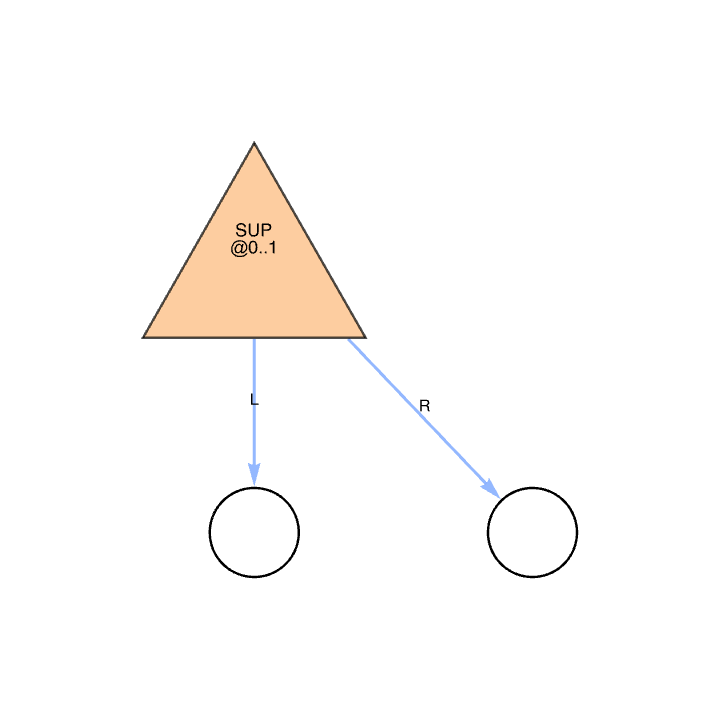
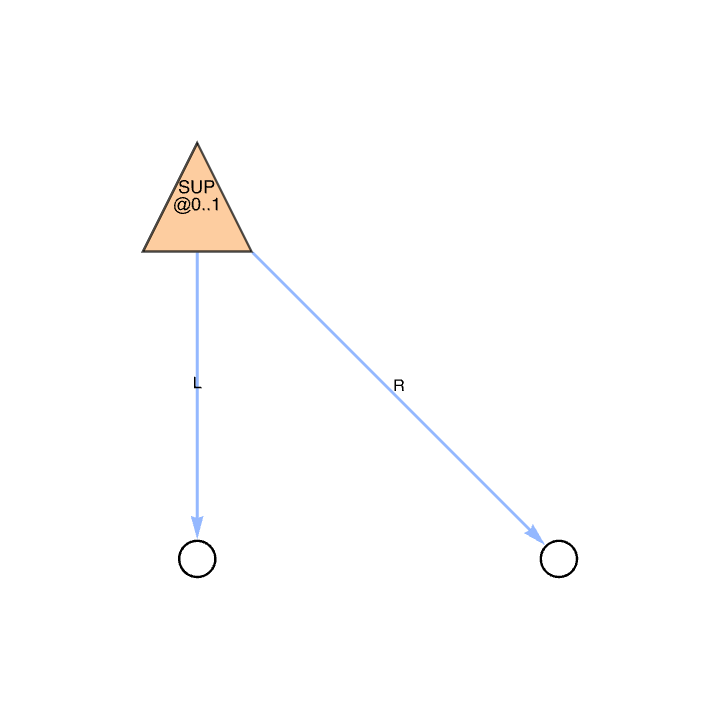
DUP-LAM + church-numeral examples
C runtime:
- src/interact/dup_lam.c: real DUP-LAM rule.  Allocates one 5-cell
  block holding the new pair of bound vars (as a SUP inside the
  original binder) and the new pair of body projections (as a fresh
  DUP over the original body).  Body is not eagerly cloned -- only
  when a future projection inspects part of the body does it descend
  lazily.
- Wired into wnf's DP frame's TAG_LAM dispatch.
- tests/test_dup_lam.c: clone identity lambda + apply-cloned-id end
  to end (5 checks).  Now 91+8=99 C checks pass via make test.

WL examples:
- 10-k-combinator: K = lam x. lam y. x
- 11-church-1: lam s. lam z. s z
- 12-church-2: lam s. lam z. s (s z) -- explicit TDup of s
- 13-church-2-applied: church2 f x reduced through TWnf, post-reduction
  graph showing the cloned LAMs feeding into a SUP at the original
  binder and the (now substituted) DUP cell

Two new VerificationTests in core.wlt: a direct DUP-LAM clone and
the Church-2-applied reduction.

Renderer side fixes (small, paired with this commit because they are
how the church2 graph reads cleanly):
- VertexShapeFunction now respects the size argument so VertexSize
  overrides actually take effect.  ERA Circle uses Min[size] for its
  radius.
- THeapGraph[t] accepts a TTerm or an Integer (was Integer-only).

Docs:
- docs/interact/dup_lam.md: rule + C + worked example + cost +
  why-this-shape note.
- docs/interact/_.md: DUP-LAM moved out of "deferred" into the
  implemented table.
[…]

diff --git a/tests/test_dup_lam.c b/tests/test_dup_lam.c
@@ -1,0 +1,66 @@
+// test_dup_lam.c -- DUP-LAM (lambda cloning).
+//
+// ! &L{F0, F1} = lam x.x   ->   F0 <- lam x0.x0,  F1 <- lam x1.x1
+//
+// We construct an identity lambda, dup it, and reduce DP0 to verify
+// the active projection comes back as a fresh LAM whose body is a
+// VAR pointing at its own binder.
+
+#include "../src/thvm.c"
+#include "test.h"
+
+int main(void) {
+  thvm_init();
+
+  TEST_BEGIN("dup-lam/identity-cloned");
+  {
+    // Build (lam x. x) at args base lam_loc.
+    u64  lam_loc = heap_alloc(1);
+    heap_set(lam_loc, term_new(0, TAG_VAR, 0, lam_loc));
+    Term lam     = term_new(0, TAG_LAM, 0, lam_loc);
+
+    // Build a DUP cell holding the identity lambda.
+    u64  dup_loc = heap_alloc(1);
+    heap_set(dup_loc, lam);
+    Term dp0     = term_new(0, TAG_DP0, 9, dup_loc);
+
+    u64  itrs_before = ITRS;
+    Term out         = wnf(dp0);
+    CHECK_EQ(term_tag(out), TAG_LAM);
+    CHECK_EQ(ITRS - itrs_before, 1);  // exactly one DUP-LAM firing
+
+    // The new LAM's body cell holds DP0(val=shared, lab) -- the body
+    // term is itself duplicated so DP1 (the inactive projection)
+    // shares it.  Verifying the structural invariant: body's tag is
+    // DP0 with the same dup label.
+    u64  new_lam_loc  = term_val(out);
+    Term new_lam_body = heap_read(new_lam_loc);
+    CHECK_EQ(term_tag(new_lam_body), TAG_DP0);
+    CHECK_EQ(term_ext(new_lam_body), 9);
+  }
+
+  TEST_BEGIN("dup-lam/applying-cloned-identity-yields-input");
+  {
+    // !&L{f0, f1} = lam x.x;  apply f0 to ERA  ->  ERA.
+    // Tests that DUP-LAM produces a usable lambda end-to-end.
+    u64  lam_loc = heap_alloc(1);
+    heap_set(lam_loc, term_new(0, TAG_VAR, 0, lam_loc));
+    Term lam     = term_new(0, TAG_LAM, 0, lam_loc);
+
+    u64  dup_loc = heap_alloc(1);
+    heap_set(dup_loc, lam);
+    Term dp0     = term_new(0, TAG_DP0, 11, dup_loc);
+
+    Term era     = term_new(0, TAG_ERA, 0, 0);
+    u64  app_loc = heap_alloc(2);
+    heap_set(app_loc + 0, dp0);
+    heap_set(app_loc + 1, era);
+    Term app     = term_new(0, TAG_APP, 0, app_loc);
+
+    Term out = wnf(app);
+    CHECK_EQ(term_tag(out), TAG_ERA);
+  }
+
+  thvm_free();
+  TEST_REPORT();
+}

diff --git a/src/interact/dup_lam.c b/src/interact/dup_lam.c
@@ -1,0 +1,38 @@
+// ! &L{F0, F1} = lam x.body
+// ------------------------- DUP-LAM
+// F0 <- lam x0.b0
+// F1 <- lam x1.b1
+// x  <- &L{x0, x1}
+// ! &L{b0, b1} = body
+//
+// Allocates one 5-cell block:
+//
+//   a+0  body cell of new LAM0     (also LAM0's binder slot)
+//   a+1  body cell of new LAM1     (also LAM1's binder slot)
+//   a+2  SUP left  = VAR(a+0)
+//   a+3  SUP right = VAR(a+1)
+//   a+4  shared DUP body holding the original lambda's body
+//
+// The original lambda's binder cell (lam_loc) gets substituted with
+// SUP(a+2, lab) so any leftover VAR -> lam_loc resolves to the new
+// pair of bound vars.  The active projection's side gets back its
+// fresh LAM via heap_subst_cop.
+fn Term interact_dup_lam(u32 lab, u64 loc, u8 side, Term lam) {
+  ITRS++;
+  u64  lam_loc = term_val(lam);
+  Term body    = heap_read(lam_loc);
+
+  u64 a = heap_alloc(5);
+  heap_set(a + 4, body);
+  heap_set(a + 0, term_new(0, TAG_DP0, lab, a + 4));
+  heap_set(a + 1, term_new(0, TAG_DP1, lab, a + 4));
+  heap_set(a + 2, term_new(0, TAG_VAR, 0,   a + 0));
+  heap_set(a + 3, term_new(0, TAG_VAR, 0,   a + 1));
+
+  Term sup = term_new(0, TAG_SUP, lab, a + 2);
+  Term l0  = term_new(0, TAG_LAM, 0,   a + 0);
+  Term l1  = term_new(0, TAG_LAM, 0,   a + 1);
+
+  heap_subst_var(lam_loc, sup);
+  return heap_subst_cop(side, loc, l0, l1);
+}

diff --git a/src/thvm.h b/src/thvm.h
@@ -107,6 +107,7 @@ fn Term interact_app_lam(Term lam, Term arg);
 fn Term interact_app_era(void);
 fn Term interact_dup_sup(u32 lab, u64 loc, u8 side, Term sup);
 fn Term interact_dup_era(u8 side, u64 loc, Term era);
+fn Term interact_dup_lam(u32 lab, u64 loc, u8 side, Term lam);
 
 // === wnf/ ===
 // Stack-machine reducer to weak normal form.  See src/wnf/_.c for the

diff --git a/src/wnf/_.c b/src/wnf/_.c
@@ -106,6 +106,10 @@ apply:
             whnf = interact_dup_era(side, loc, whnf);
             continue;
           }
+          case TAG_LAM: {
+            next = interact_dup_lam(lab, loc, side, whnf);
+            goto enter;
+          }
           default: {
             heap_set(loc, whnf);
             whnf = frame;

diff --git a/src/thvm.c b/src/thvm.c
@@ -36,6 +36,7 @@ u64   ITRS      = 0;
 #include "interact/app_era.c"
 #include "interact/dup_sup.c"
 #include "interact/dup_era.c"
+#include "interact/dup_lam.c"
 
 // === wnf/ ===
 #include "wnf/_.c"

diff --git a/CHANGELOG.md b/CHANGELOG.md
@@ -6,6 +6,74 @@ dated section.
 
 ## Unreleased
 
+### Added: DUP-LAM + church-numeral examples
+
+- `src/interact/dup_lam.c`: real DUP-LAM rule.  Allocates one
+  five-cell block holding the new pair of bound vars (as a SUP
+  inside the original binder) and the new pair of body projections
+  (as a fresh DUP over the original body).  No body cloning happens
+  eagerly -- only when a future projection inspects part of the
+  body does it descend lazily.  This is the rule that gives Church
+  numerals (and similarly Lamping / optimal-reduction style
+  workloads) their non-exponential cloning behaviour.
+- `tests/test_dup_lam.c`: two C tests; clone an identity lambda and
+  confirm DUP-LAM fires once, then end-to-end apply one of the
+  cloned copies to ERA.
+- `wl/Examples/10-k-combinator/`, `11-church-1/`, `12-church-2/`,
+  `13-church-2-applied/`: four new runnable examples.  The Church 2
+  family exercises the DUP machinery; the applied form reduces
+  end-to-end and the resulting graph (in `13-...-applied/graph.png`)
+  shows the post-firing heap including the cloned lambdas and the
+  substituted DUP cell.
+- Two new VerificationTests in `wl/THVMLink/Tests/core.wlt`: a
+  direct DUP-LAM clone, and Church-2-applied reducing to the
+  identity-applied result.
+- `docs/interact/dup_lam.md` documents the rule, the C, the cost,
+  and why the lazy-cloning shape matters.
+
+### Added: visualization renderer split + theme-aware colors
+
+- `wl/THVMLink/Kernel/Visualization.wl`: extracts the heap-graph
+  renderer into a dedicated kernel sibling.  THVMLink.wl now `Get`s
+  it after declaring public symbols.
+- Theme-aware colors throughout: `LightDarkSwitched[Black, White]`
+  for foreground; `Lighter[StandardX, 0.55]` / `Darker[StandardX,
+  0.45]` per-tag agent fills (green LAM, blue APP, orange SUP,
+  purple DUP); ERA stays as a plain foreground-stroked Circle.
+- Vertex labels now render in column form: `TAG\n@<base>` for
+  arity-1 agents, `TAG\n@<base>..<base+1>` for arity-2.
+- Triangles are real triangles via `Triangle[]` (not trapezoids)
+  with apex orientation matching IC convention: LAM/DUP point down,
+  APP/SUP point up.
+- VertexShapeFunction now respects the size argument so
+  `VertexSize -> Tiny | Small | Large | Scaled[...]` actually take
+  effect.
+- Single-vertex self-loop is drawn explicitly via
+  EdgeShapeFunction; the identity lambda's loop is now visible.
+- Pink "background" mystery solved: `Dashing[{Small, Small}]` was
+  invalid (Small is not a numeric Dashing arg) which silently put
+  Wolfram into an error-overlay state.  Replaced with the proper
+  `Dashed` directive.
+- Context-shadowing fix: switched `wl/Examples/run.wls` and
+  `wl/THVMLink/Tests/run.wls` from `Needs["THVMLink`"]` to
+  `Get["THVMLink`"]` so user code resolves to package symbols
+  rather than auto-created `Global`*` placeholders.
+- `wl/GUIDE.md` gains a Dark-mode + Standard colors section and an
+  OptionsPattern[] section.
+
+### Added: TTerm atomic wrapper + ensureInit
+
+- TTerm[id_Integer] is the canonical wrapper around a packed Term;
+  TLam / TApp / TSup / TDup / TEra / TVarFor return TTerm-wrapped
+  values; TTermTag/Ext/Val/Sub accept either a TTerm or a raw
+  Integer.  Old TTermInfo is gone (folded into TTerm[id]["info"]);
+  TTermNew is no longer in the public API (private packTerm helper).
+- TTerm[id]["tag" | "ext" | "val" | "sub" | "tagName" | "raw" |
+  "info"] forwards to the bridge.  Format.wl gives TTerm a summary
+  box keyed off the structural pattern (QuantumFramework style).
+- ensureInit[]: heap-touching ops auto-call TInit if the runtime is
+  not initialised yet.  TFree clears the flag.
+
 ### Added: wl/Examples/ runnable example database
 
 - New `wl/Examples/` directory: one folder per example term, each

diff --git a/docs/interact/dup_lam.md b/docs/interact/dup_lam.md
@@ -1,0 +1,87 @@
+# DUP-LAM
+
+Source: [src/interact/dup_lam.c](../../src/interact/dup_lam.c).
+Tested by [tests/test_dup_lam.c](../../tests/test_dup_lam.c) and a
+VerificationTest in [wl/THVMLink/Tests/core.wlt](../../wl/THVMLink/Tests/core.wlt).
+
+## Rule
+
+```
+! &L{F0, F1} = lam x.body
+------------------------- DUP-LAM
+F0 <- lam x0.b0
+F1 <- lam x1.b1
+x  <- &L{x0, x1}
+! &L{b0, b1} = body
+```
+
+Cloning a lambda: produce two fresh lambdas that share the same
+body via a new dup, and rebind the original variable so leftover
+occurrences of `x` in the rest of the program resolve to the new
+superposition `&L{x0, x1}`.  This is the rule that lets things like
+Church 2 (`lam s. lam z. s (s z)`) reduce: the `s` is duplicated
+before the inner application uses it twice.
+
+## Implementation
+
+```c
+fn Term interact_dup_lam(u32 lab, u64 loc, u8 side, Term lam) {
+  ITRS++;
+  u64  lam_loc = term_val(lam);
+  Term body    = heap_read(lam_loc);
+
+  u64 a = heap_alloc(5);
+  heap_set(a + 4, body);
+  heap_set(a + 0, term_new(0, TAG_DP0, lab, a + 4));
+  heap_set(a + 1, term_new(0, TAG_DP1, lab, a + 4));
+  heap_set(a + 2, term_new(0, TAG_VAR, 0,   a + 0));
+  heap_set(a + 3, term_new(0, TAG_VAR, 0,   a + 1));
+
+  Term sup = term_new(0, TAG_SUP, lab, a + 2);
+  Term l0  = term_new(0, TAG_LAM, 0,   a + 0);
+  Term l1  = term_new(0, TAG_LAM, 0,   a + 1);
+
+  heap_subst_var(lam_loc, sup);
+  return heap_subst_cop(side, loc, l0, l1);
+}
+```
+
+One 5-cell allocation; the layout is documented inline.
+
+## Worked example
+
+`!&L{F0, F1} = lam x.x` followed by `(F0 ERA)`:
+
+1. DUP-LAM fires.  Two cloned identity lambdas exist; the original
+   `x` is bound to a fresh `SUP{x0, x1}`; the original body cell
+   becomes a DUP carrier.
+2. `(F0 ERA)` reduces via APP-LAM, which substitutes `ERA` at F0's
+   binder loc.
+3. Resolving F0's body chases through DP0 of the dup body (which
+   holds `VAR(original-binder)`).  The original binder now holds
+   the SUP, so DP0 of SUP fires (annihilating same-label) and yields
+   `VAR(x0)` at the new LAM0's binder.
+4. That VAR resolves via the substitution from step 2 to ERA.
+
+Net effect: `(F0 ERA) -> ERA`, exactly as if F0 were the original
+identity lambda.  Tested by
+[tests/test_dup_lam.c](../../tests/test_dup_lam.c) and the WL
+"Church 2 applied to id and ERA reduces to ERA" verification test.
+
+## Cost
+
+- One `heap_alloc(5)`
+- Five `heap_set` for the new cells
+- One `heap_set` (via `heap_subst_var`) for the original binder
+- One `heap_set` (via `heap_subst_cop`) for the inactive projection
+- Zero recursion: the body itself is not cloned, only wrapped in a
+  new DUP that the future projections will descend into lazily.
+- One `ITRS++`.
+
+## Why this is the right shape
+
+Naive lambda cloning would deep-copy the body, which is exponential
+in the worst case.  The IC trick is to share the body via a new dup
+and let further reductions of `F0` / `F1` clone only the parts of
+the body that they actually inspect.  This laziness is what gives
+Lamping / Mazza / HVM their optimal-reduction property.

diff --git a/wl/Examples/README.md b/wl/Examples/README.md
@@ -39,6 +39,10 @@ just want to see what the WL evaluator returns.
 | [07-dup-sup-annihilate-pre](07-dup-sup-annihilate-pre/) | DUP / SUP sharing label `7`, both projections held | no       |
 | [08-dup-sup-annihilate-post](08-dup-sup-annihilate-post/) | same, after `TWnf[dp0]`; DUP-SUP has fired       | yes      |
 | [09-nested-apps](09-nested-apps/)      | `(((id) ERA) (id))` -- nested APP / LAM tree                    | no       |
+| [10-k-combinator](10-k-combinator/)    | `K = lam x. lam y. x` -- two nested LAMs, no DUP                | no       |
+| [11-church-1](11-church-1/)            | Church 1 = `lam s. lam z. s z` -- single use of `s`             | no       |
+| [12-church-2](12-church-2/)            | Church 2 = `lam s. lam z. s (s z)` -- DUPs `s` first            | no       |
+| [13-church-2-applied](13-church-2-applied/) | Church 2 applied to id and ERA, after `TWnf`; DUP-LAM fires | yes      |
 
 Examples with `-reduced` / `-post` suffixes are paired with their
 unreduced counterpart so you can see the heap before and after the

diff --git a/docs/interact/_.md b/docs/interact/_.md
@@ -13,6 +13,7 @@ and the comment needs updating.
 | APP / ERA   | erased function consumes its argument   | [app_era.md](app_era.md)                     |
 | DP0,1 / SUP | annihilation (same label only today)    | [dup_sup.md](dup_sup.md)                     |
 | DP0,1 / ERA | both projections receive the eraser     | [dup_era.md](dup_era.md)                     |
+| DP0,1 / LAM | clone the lambda lazily via a fresh DUP | [dup_lam.md](dup_lam.md)                     |
 
 ## Stuck pairs (deferred)
 
@@ -21,7 +22,6 @@ pair with no matching interaction. The reducer puts the WHNF back
 into the original heap cell and treats the frame itself as the new
 WHNF, so the result is a well-formed but unreduced node.
 
-- DP0,1 / LAM (clone the lambda)
 - DP0,1 / SUP with different labels (commute)
 - APP / SUP (commute)
 

diff --git a/README.md b/README.md
@@ -26,7 +26,7 @@ architecture docs, and the IC-style heap graph renderer.
 | `interact_dup_sup` (same label)  | implemented + tested            |
 | `interact_dup_sup` (commute)     | stuck (deferred)                |
 | `interact_dup_era`               | implemented + tested            |
-| `interact_dup_lam` (clone)       | not yet implemented             |
+| `interact_dup_lam` (clone)       | implemented + tested            |
 | WL paclet `wl/THVMLink/`         | implemented + tested            |
 | `THeapGraph[]` heap renderer     | implemented + tested            |
 | Tensor / TUOp                    | step 12                         |

diff --git a/wl/GUIDE.md b/wl/GUIDE.md
@@ -90,6 +90,22 @@ the start.
 
   Single-line `If[cond, then, else]` does not need the leading space.
 
+### Optional arguments
+
+For functions that take Wolfram-style options, use
+`opts : OptionsPattern[]`, not `opts___ ? OptionQ`.  The former
+integrates with `Options[fn]` declarations and `OptionValue[fn, key]`,
+which is the canonical Wolfram pattern.
+
+```wolfram
+Options[myFn] = {GraphLayout -> "LayeredDigraphEmbedding"};
+
+myFn[args___, opts : OptionsPattern[]] :=
+    With[{layout = OptionValue[GraphLayout]},
+        ...
+    ]
+```
+
 ## Definitions
 
 Prefer `Block` for local workspaces unless `Module`'s unique-symbol
